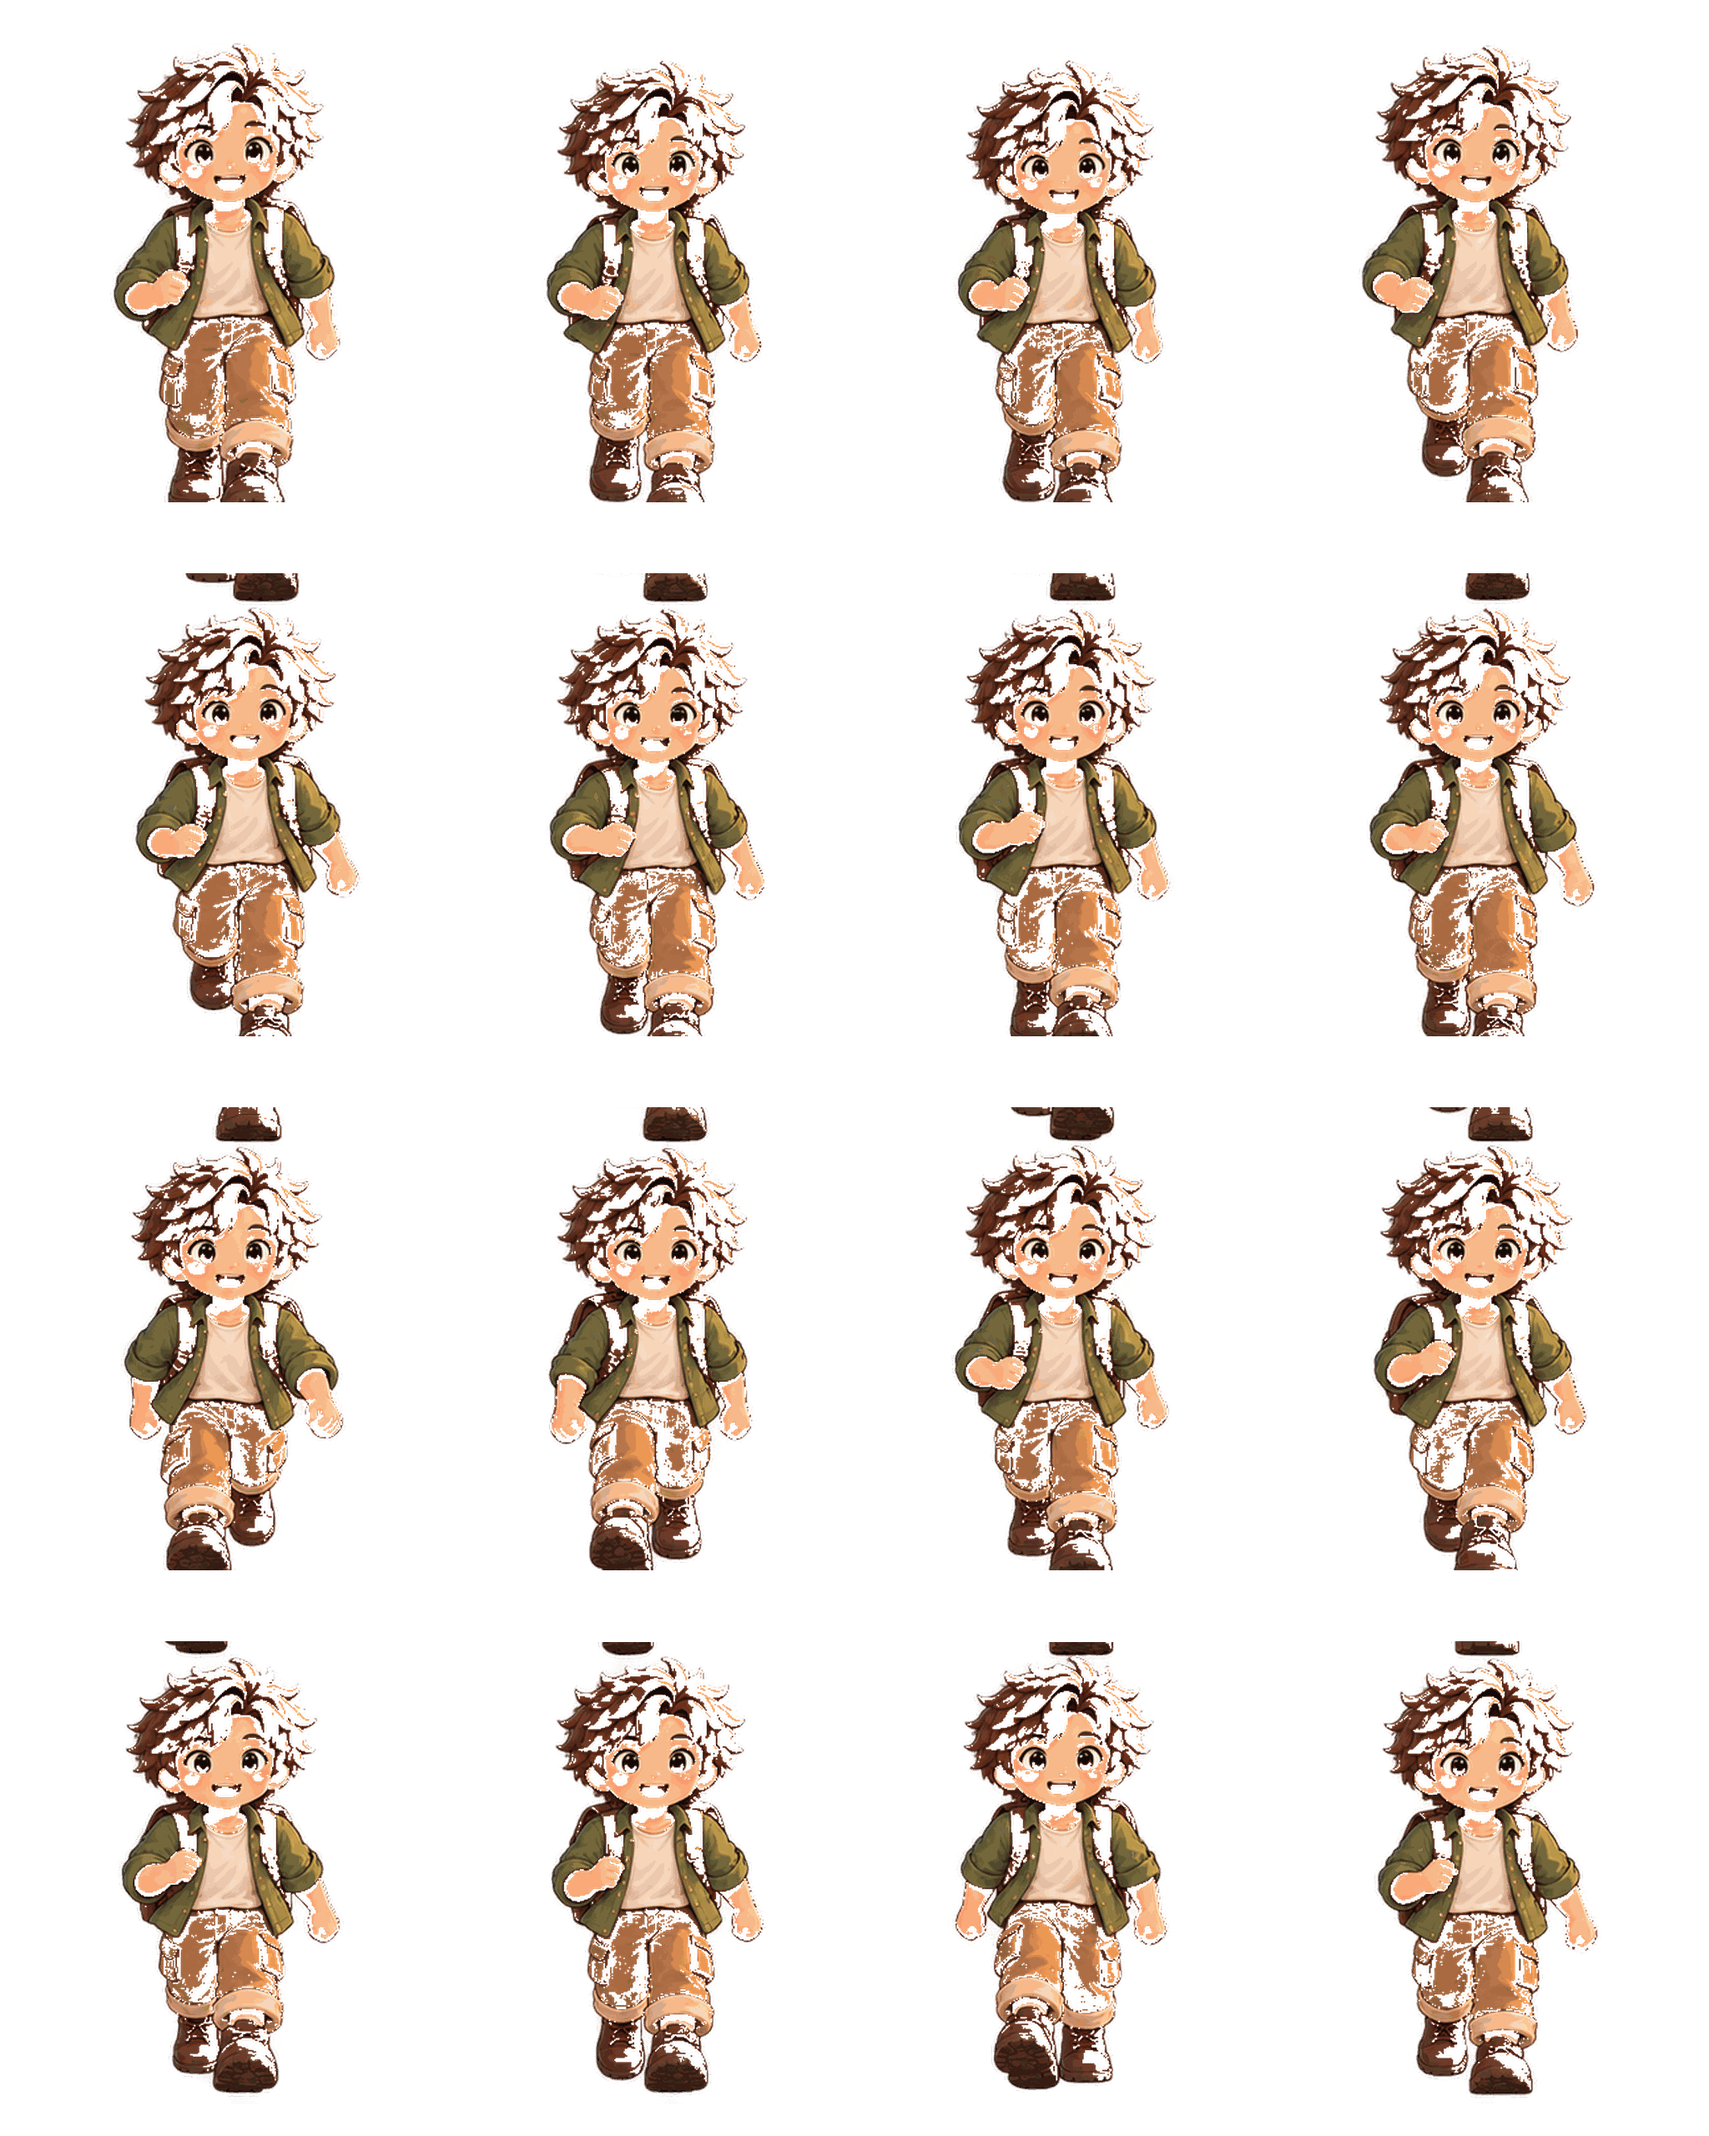
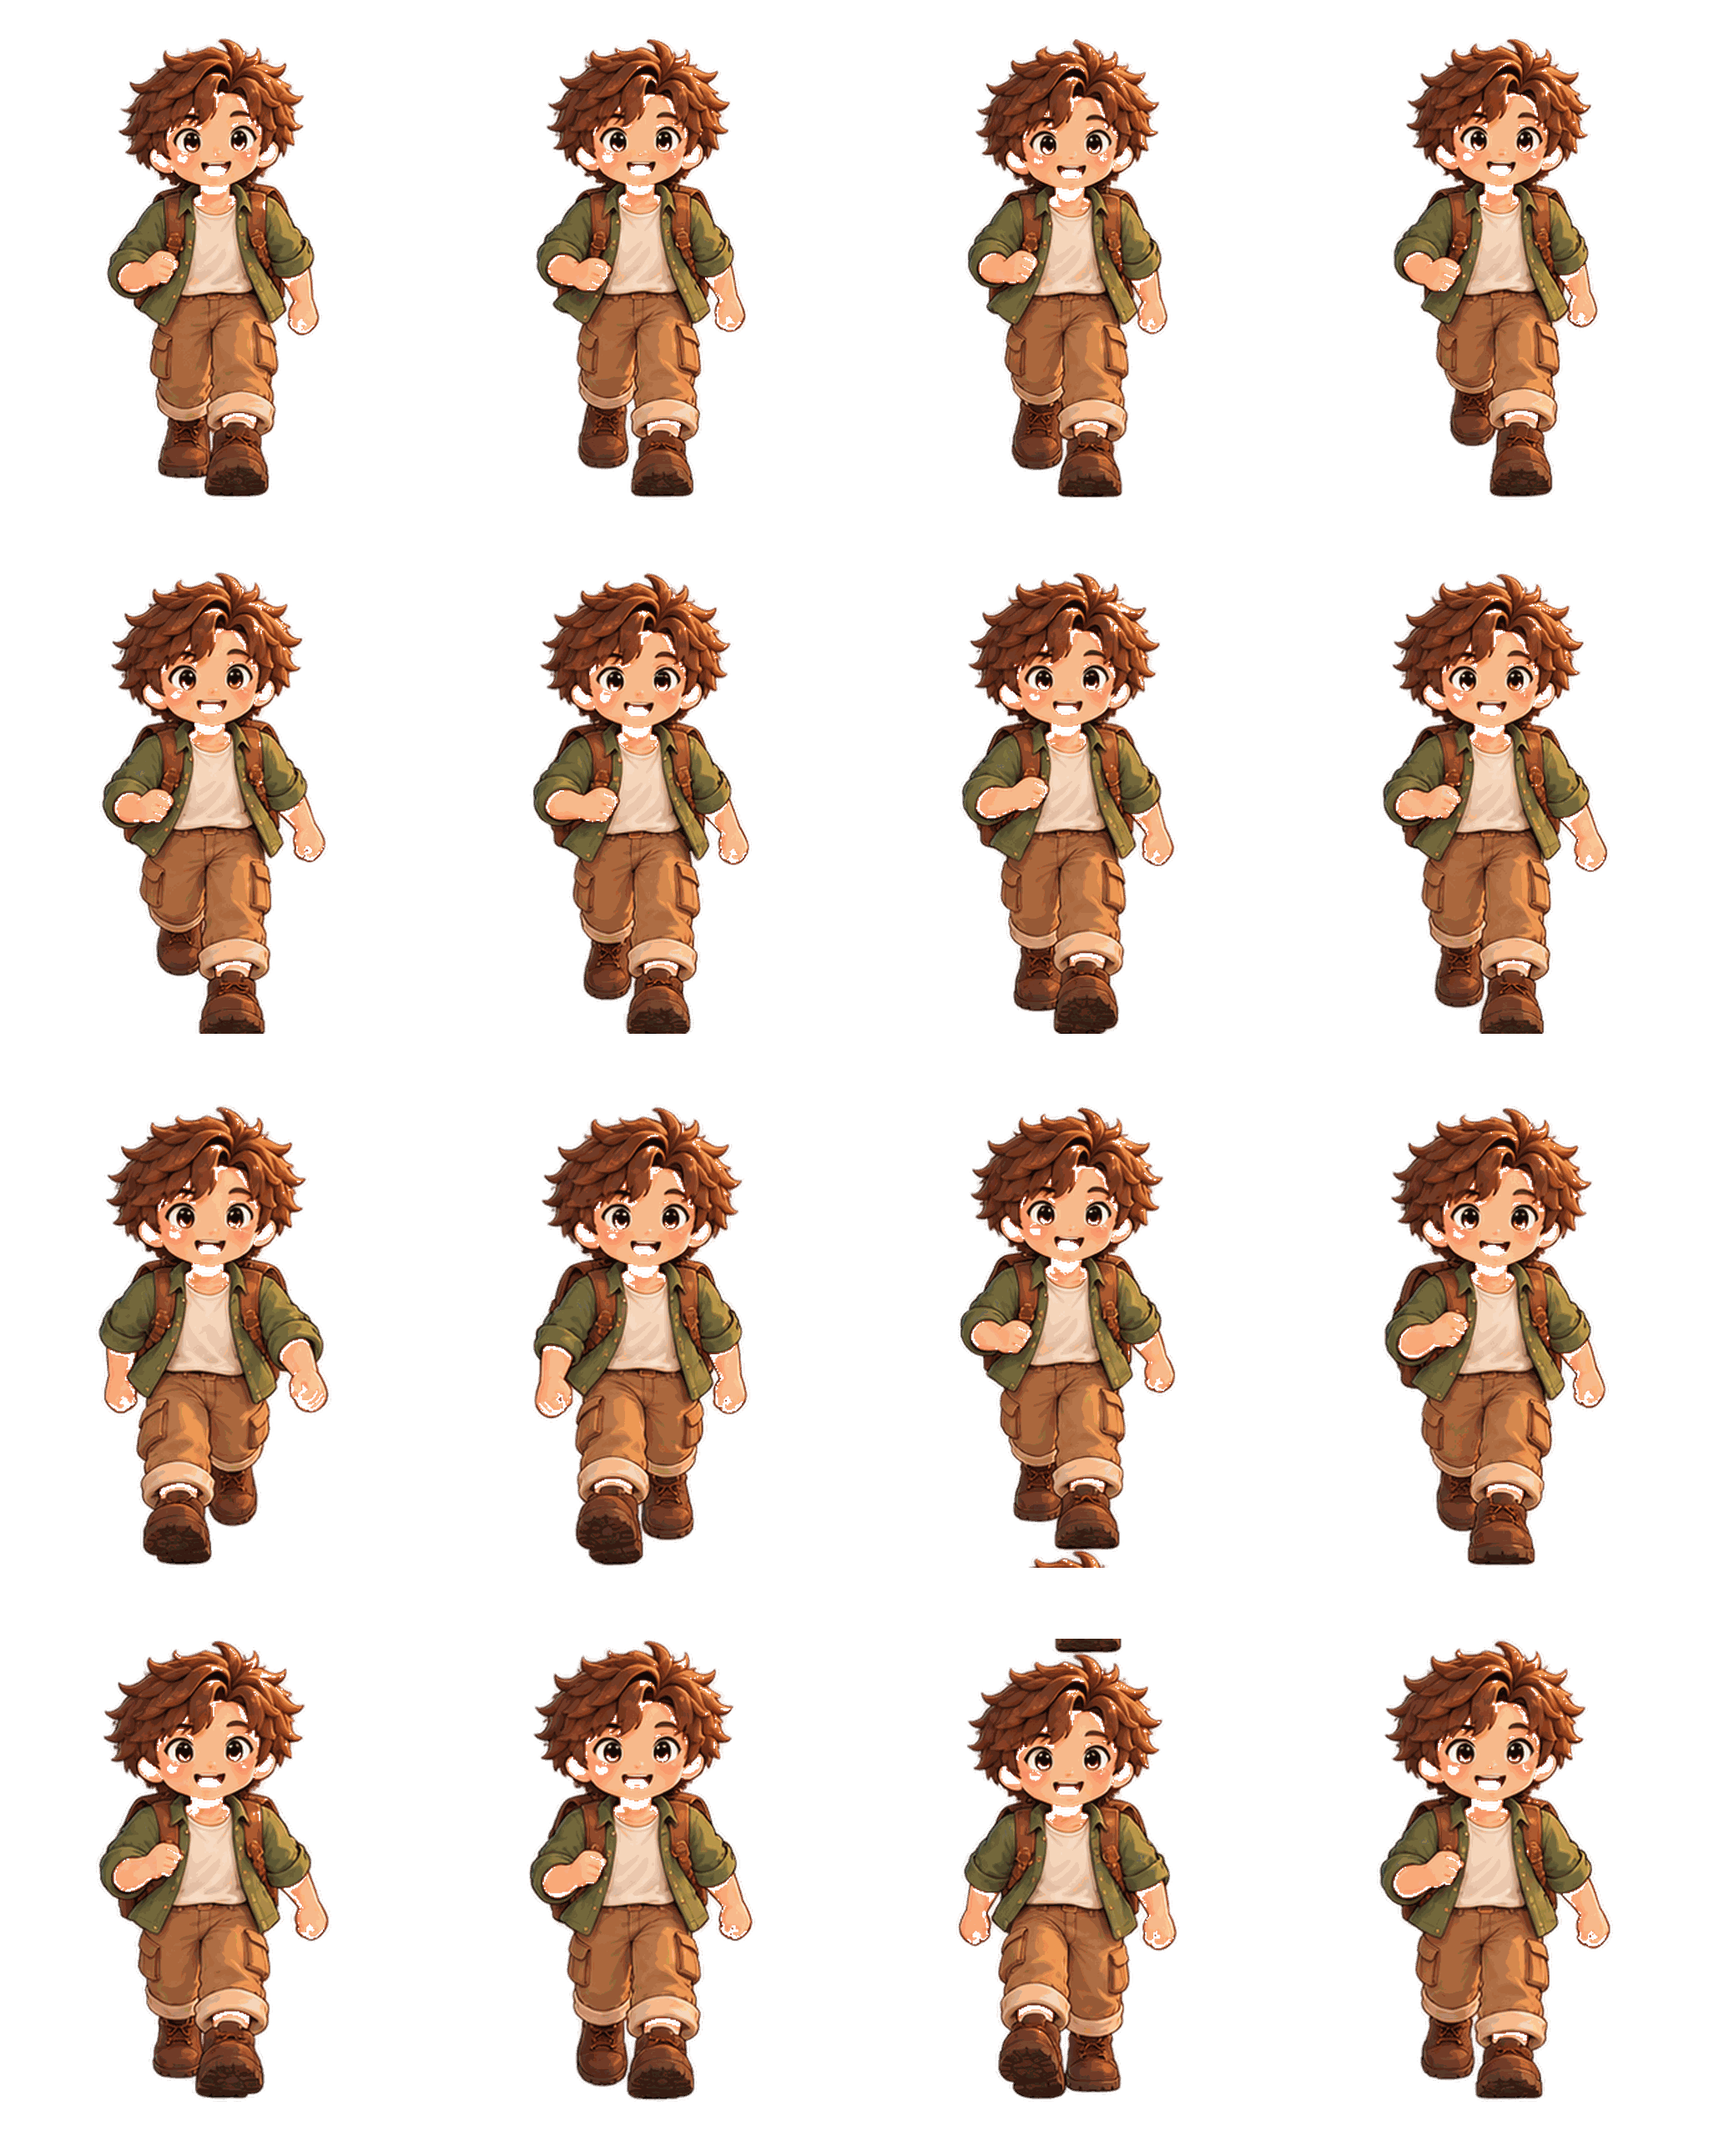
fix(hero): restore intact 16-frame HD walk art and prevent red mask erosion

diff --git a/assets/characters/player_hd/README.md b/assets/characters/player_hd/README.md
@@ -1,7 +1,12 @@
-# Walk 16-frame / 8 arah — Lembah Asri
+# Lembah Asri — 16-frame walk per direction, 8 directions
 
-Lima sheet sumber 4x4 (up, up_right, right, down_right, down) dibagi menjadi enam belas frame 512×640, masing-masing di dalam atlas 2048×2560. Tiga arah kiri dicerminkan secara horizontal dari kanan.
+This folder contains five source pose directions, each as a 4x4 frame atlas (2048x2560 pixels): `up`, `up_right`, `right`, `down_right`, `down`. Each frame has an identical 512x640 transparent canvas and foot baseline. Three left directions mirror the corresponding right view in `AnimatedSprite2D`.
 
-Idle memakai frame 16 dari atlas yang sama agar gaya karakter tidak berubah saat berhenti; aset PNG master 8 arah tidak ditimpa. FPS walk 12, run 16 memakai walk frames (run bukan animasi khusus). Shader deformasi walk lama tidak digunakan.
+## Visual damage repair, October 2026
+Previous atlas generation mistakenly removed **brown pixels** (hair, trousers, boots) with a broad red-color removal predicate. The new atlases use connected-component foreground segmentation, a narrow bright-red-only threshold, a small halo exclusion, and a crop extending 24 source pixels below each original sheet cell so boot toes are retained. No anatomy has been re-generated. The canonical full RGBA (lossless) output is kept as the downloadable repaired asset pack.
 
-**Batasan kualitas:** gambar sumber AI adalah 1122×1402 untuk 16 karakter, sehingga resolusi visual native per karakter jauh di bawah 512×640. Atlas 512×640 adalah canvas hasil upscale, bukan peningkatan detail asli. Tidak semua sheet berisi gait 16 pose yang progresif/anatomis konsisten. Uji visual in-game masih diperlukan dan foot-lift untuk semua frame belum bisa dijamin hanya melalui tes script.
+Godot Web uses optimized RGBA-to-256-color **indexed PNG** versions of the repaired sprites to keep repository file sizes manageable. This quantizes color (it is **not mathematically lossless color**), but it maintains the 2048x2560 atlas dimensions, alpha transparency, 512x640 frame bounds and the figure silhouette. Do not run aggressive RGB deletion or resize any individual axis.
+
+Idle uses pose 16 from the same atlas for each direction to avoid a jarring art-style switch on stopping; the original master idle files remain present and unmodified in this repository. Walk is 12 FPS, and run plays the walk poses at 16 FPS (run is not yet an independently drawn animation). Sides left are mirrored.
+
+The smoke test checks all eight directions, frame count, source image dimensions, playable scale, interactions, and now critical **hair/body opacity** on the opening frames. These are regression checks, not a substitute for watching all 16 poses in gameplay. The user-approved turnaround remains the artistic source of truth.
